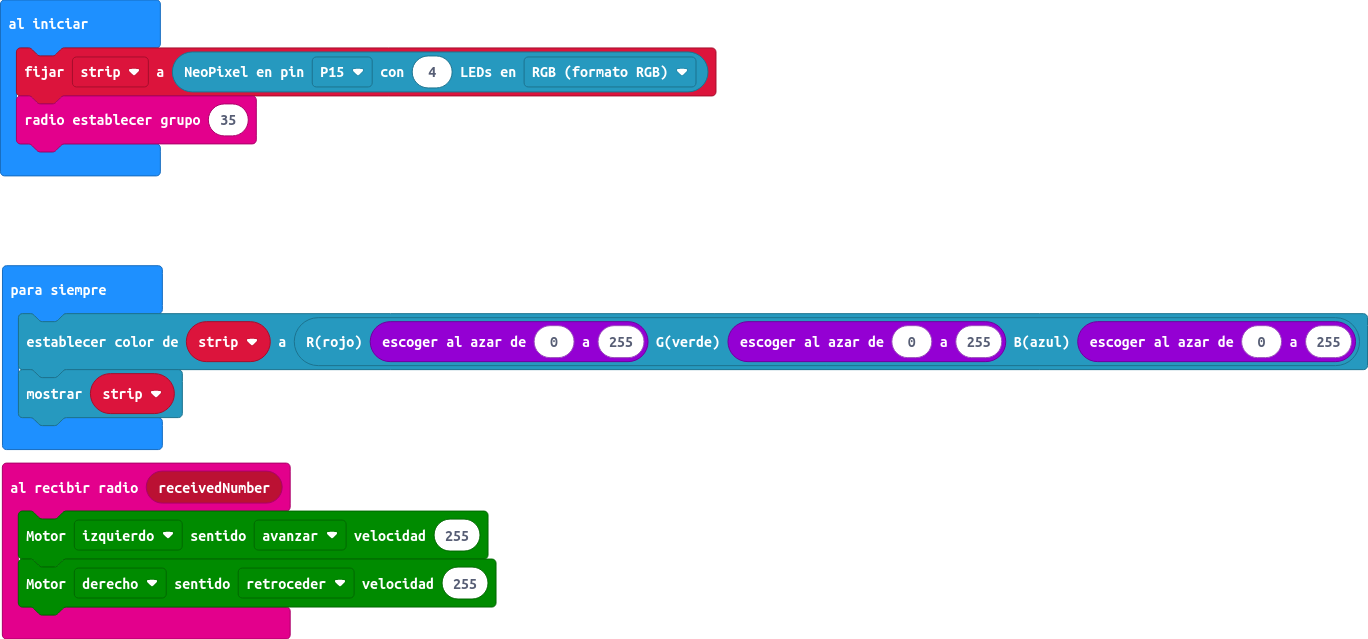
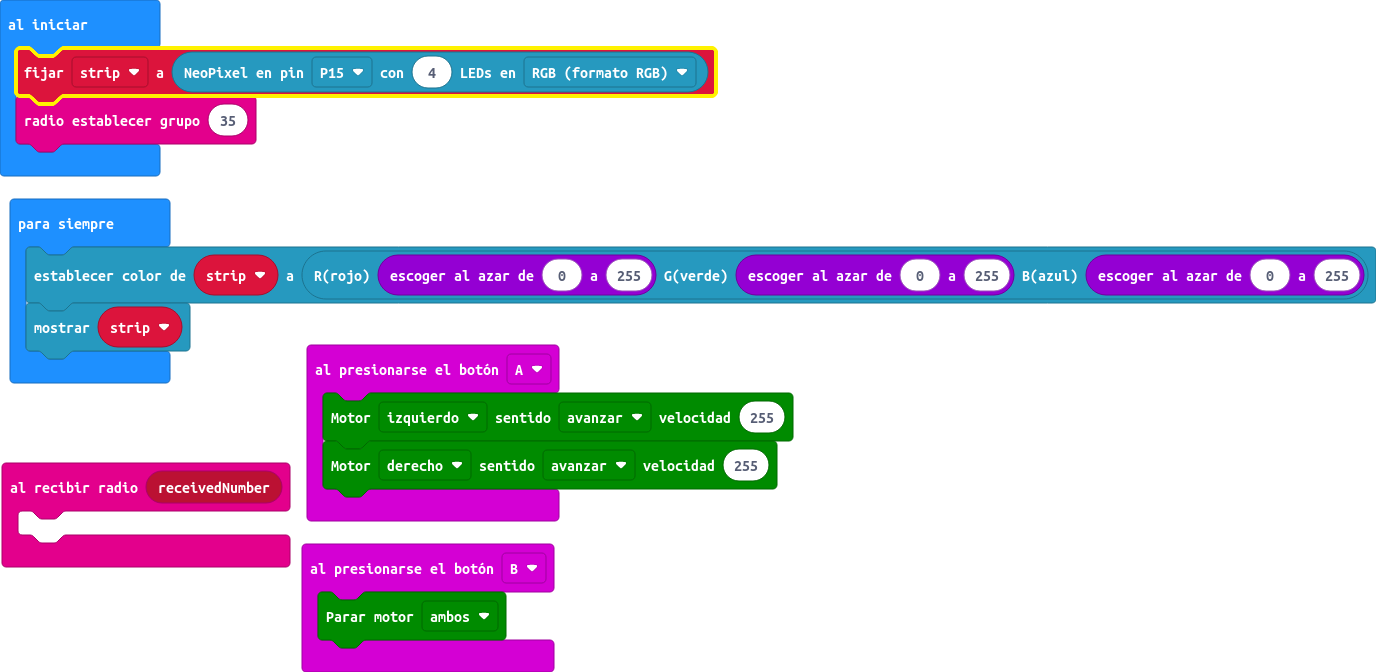
Actualizar pxt.json, main.blocks, main.ts, main.py

diff --git a/main.ts b/main.ts
@@ -1,6 +1,12 @@
 radio.onReceivedNumber(function (receivedNumber) {
+	
+})
+input.onButtonPressed(Button.A, function () {
     maqueen.motorRun(maqueen.Motors.M1, maqueen.Dir.CW, 255)
-    maqueen.motorRun(maqueen.Motors.M2, maqueen.Dir.CCW, 255)
+    maqueen.motorRun(maqueen.Motors.M2, maqueen.Dir.CW, 255)
+})
+input.onButtonPressed(Button.B, function () {
+    maqueen.motorStop(maqueen.Motors.All)
 })
 let strip = neopixel.create(DigitalPin.P15, 4, NeoPixelMode.RGB)
 radio.setGroup(35)

diff --git a/main.py b/main.py
@@ -1,0 +1,21 @@
+def on_received_number(receivedNumber):
+    pass
+radio.on_received_number(on_received_number)
+
+def on_button_pressed_a():
+    maqueen.motor_run(maqueen.Motors.M1, maqueen.Dir.CW, 255)
+    maqueen.motor_run(maqueen.Motors.M2, maqueen.Dir.CCW, 255)
+input.on_button_pressed(Button.A, on_button_pressed_a)
+
+def on_button_pressed_b():
+    maqueen.motor_run(maqueen.Motors.M1, maqueen.Dir.CW, 0)
+    maqueen.motor_run(maqueen.Motors.M2, maqueen.Dir.CCW, 0)
+input.on_button_pressed(Button.B, on_button_pressed_b)
+
+strip = neopixel.create(DigitalPin.P15, 4, NeoPixelMode.RGB)
+radio.set_group(35)
+
+def on_forever():
+    strip.show_color(neopixel.rgb(randint(0, 255), randint(0, 255), randint(0, 255)))
+    strip.show()
+basic.forever(on_forever)
